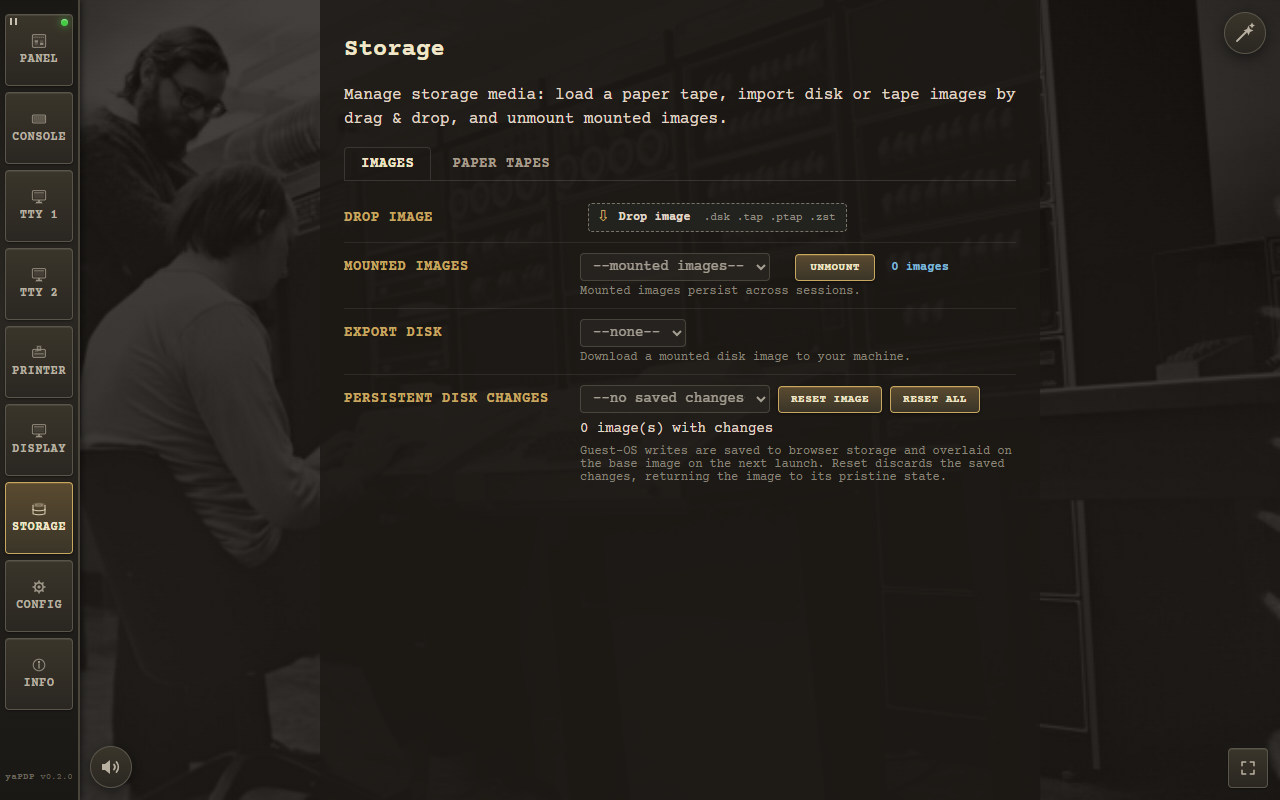
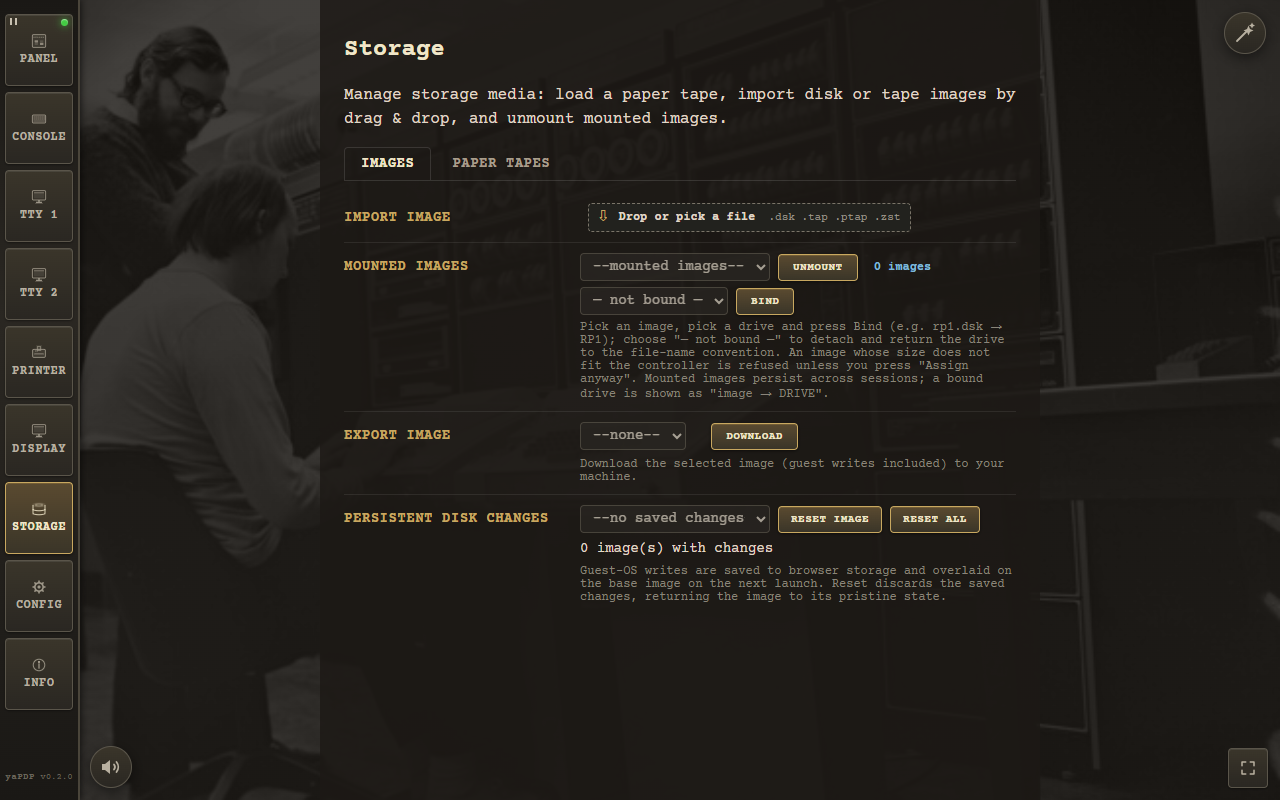
docs: refresh the Storage manual text and screenshots for import/export and drive binding

diff --git a/docs/manual/ru/storage.md b/docs/manual/ru/storage.md
@@ -9,8 +9,8 @@
 **Вкладка Images:**
 
 - **Import image.** Бросьте или выберите образ диска или ленты — поддерживаются `.dsk`, `.tap`, `.ptap` и их сжатые формы `.zst`. Пока активна страница Storage, файл можно бросить в любое место окна: появляется цель перетаскивания на всё окно. Файл `.zst` — это кадр zstd, и браузер распаковывает его на лету, поэтому скачанный образ не нужно распаковывать заранее.
-- **Имя файла — это имя устройства.** Образ монтируется под URL устройства, взятым из самого файла: `RP1.DSK.ZST` становится `rp1.dsk`, поэтому гость загружает его командой `boot rp1`. Переименуйте файл в нужное устройство — таблица ниже сопоставляет каждое устройство с его приводом, контроллером и командой загрузки.
-- **Mounted images / Unmount.** Перечисляет образы, смонтированные в этом браузере, и позволяет отключить любой из них. Счётчик рядом считает образы, которые смонтировали вы (перетаскиванием или импортом), а не те, что настольная сборка несёт в себе. Смонтированные образы живут в хранилище браузера (IndexedDB) и подключаются заново автоматически при следующем запуске.
+- **Имя файла — это имя устройства.** Образ монтируется под URL устройства, взятым из самого файла: `RP1.DSK.ZST` становится `rp1.dsk`, поэтому гость загружает его командой `boot rp1`. Переименуйте файл в нужное устройство — или оставьте имя как есть и привяжите образ к приводу позже (см. ниже). Таблица ниже сопоставляет каждое устройство с его приводом, контроллером и командой загрузки.
+- **Mounted images — список, Unmount и привязка к приводу.** Список перечисляет образы, смонтированные в этом браузере. Счётчик рядом считает образы, которые смонтировали вы (перетаскиванием или импортом), а не те, что настольная сборка несёт в себе. При выбранном образе Unmount убирает его; **Assign to drive** привязывает образ к приводу (rk0-rk7, rl0-rl3, rp0-rp4, ra0-ra3, tm0-tm2), и гость загружает его оттуда, а **«— not bound —»** отвязывает, возвращая приводу имя по соглашению об именах файлов. Образ, размер которого не подходит выбранному контроллеру (образ RP06 на RK11, умеющем только RK05), не привяжется, пока не нажать **Assign anyway**. Смонтированные образы живут в хранилище браузера (IndexedDB) и подключаются заново автоматически при следующем запуске.
 - **Export image.** Скачивает сохранённый образ — вместе с записями гостевой ОС — на ваш компьютер. У каждой записи указано состояние: «no changes», «N blocks changed» или «not mounted, N blocks changed».
 - **Persistent disk changes.** Записи гостевой ОС сохраняются в хранилище браузера и накладываются поверх базового образа при следующем запуске, поэтому файлы, созданные операционной системой, остаются на месте и завтра. Хранятся только те блоки, которые гость действительно записал — базовый образ качается заново при каждом запуске, — и сохранённый блок всегда имеет приоритет над чистым. Они записываются периодически и при уходе со страницы, и принадлежат одному образу: **Reset image** отбрасывает их для выбранного диска, **Reset all** — для всех дисков, возвращая носители к заводскому состоянию.
 

diff --git a/docs/manual/storage.md b/docs/manual/storage.md
@@ -13,8 +13,8 @@ persistent disk changes.{.shot-caption}
 **Images tab:**
 
 - Import image. Drop or pick a disk or tape image here — `.dsk`, `.tap`, `.ptap` and their `.zst`-compressed forms are supported. While the Storage page is active you can also drop a file anywhere over the window: a full-window drop target appears. A.zst file is a zstd frame and the browser unwraps it on the fly, so a downloaded image needs no unpacking first.
-- The file name is the device name. An image is mounted under the device URL taken from the file itself: `RP1.DSK.ZST` becomes `rp1.dsk`, which is why the guest boots it with `boot rp1`. Rename the file to the unit you want to use — the table below maps every device to its drive, its controller and its boot command.
-- Mounted images / Unmount. Lists the images mounted in this browser and lets you unmount one again. The counter next to it counts the images *you* mounted (dropped or imported), not the ones the desktop build carries inside itself. Mounted images live in browser storage (IndexedDB) and are re-mounted automatically on the next launch.
+- The file name is the device name. An image is mounted under the device URL taken from the file itself: `RP1.DSK.ZST` becomes `rp1.dsk`, which is why the guest boots it with `boot rp1`. Rename the file to the unit you want to use — or leave the name alone and bind the image to a drive afterwards (see below). The table below maps every device to its drive, its controller and its boot command.
+- Mounted images — the list, Unmount and the drive binding. The list names the images mounted in this browser. The counter next to it counts the images *you* mounted (dropped or imported), not the ones the desktop build carries inside itself. With an image selected, Unmount removes it; "Assign to drive" binds it to a drive (rk0-rk7, rl0-rl3, rp0-rp4, ra0-ra3, tm0-tm2), so the guest boots it from there, and "— not bound —" detaches it, returning the drive to the file-name convention. An image whose size does not fit the chosen controller (an RP06 image on an RK05-only RK11) is refused unless you press "Assign anyway". Mounted images live in browser storage (IndexedDB) and are re-mounted automatically on the next launch.
 - Export image. Downloads a stored image — guest-OS writes included — to your machine. Each entry states its state: "no changes", "N blocks changed", or "not mounted, N blocks changed".
 - Persistent disk changes. Guest-OS writes are saved to browser storage and overlaid on the base image on the next launch, so files an operating system created are still there tomorrow. Only the blocks the guest actually wrote are kept — the base image is fetched again on every launch — and a saved block always wins over the pristine one. They are written out periodically and when you leave the page, and they belong to one image: Reset image discards them for the selected disk, Reset all for every disk, which returns the media to its factory state.
 
